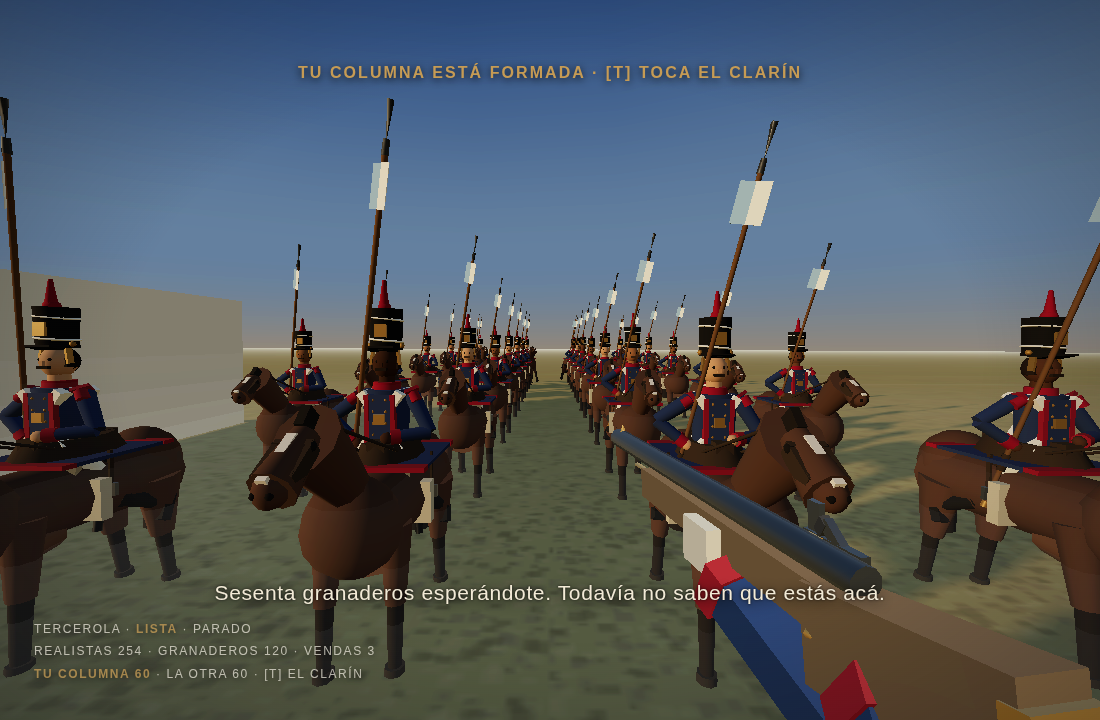
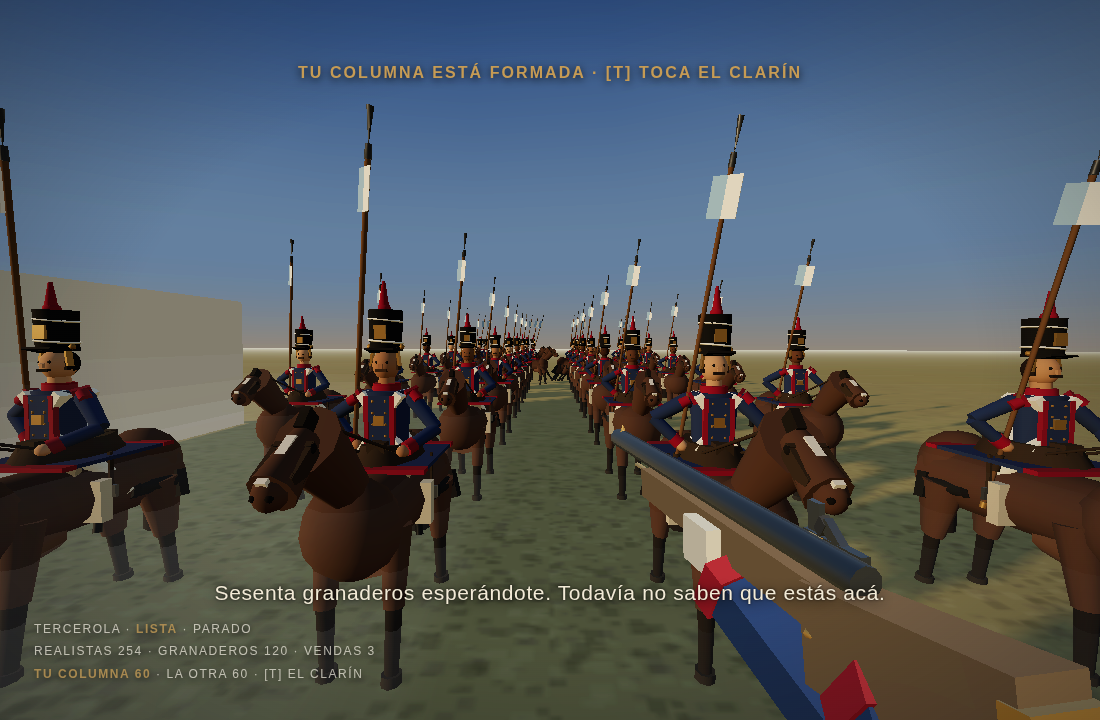
Se le estaba cobrando a la caballería por hacer bien su trabajo
Tus dos columnas de granaderos se quebraban casi tan rápido como la línea
realista y no se veía por qué. Para saberlo hubo que hacer que cada hombre
dejara anotado qué le está bajando el ánimo (s.porQue). El desglose:

                    granadero   realista
  el flanco             1,62       0,57
  la soledad            0,51       0,04
  caballería encima     0          1,09

O sea que el sistema castigaba tres veces más a la tropa que estaba GANANDO la
batalla. Y no era un número mal puesto: era un error de concepto. Los dos
términos más pesados son de LÍNEA DE INFANTERÍA.

El flanco duele porque una línea de infantería no se puede reorientar. Una
carga de caballería, en cambio, se mete adentro del enemigo: quedar rodeado es
el objetivo, no el fracaso. Y el lancero vuelve grupas todo el tiempo, así que
su frente de tropa nunca alcanza a su rumbo y quedaba leyéndose como flanqueado
permanente. La soledad duele porque la infantería pelea hombro con hombro; un
lancero necesita cancha para embalar.

Los dos se cobran SÓLO A PIE. Flanco del granadero: 1,62 → 0,37. Quiebres de
las dos columnas: 70 → 15 sobre 120. Y al que le voltean el caballo se le
cobran los dos enteros y de golpe, que es exactamente lo que tiene que sentir:
dejó de ser caballería.

EL MIEDO AL JINETE SE VE VENIR DE LEJOS. Estaba en quince metros y ahí no
servía: una carga al galope los cruza en segundo y medio, así que el miedo
llegaba junto con el asta. Pasó a treinta y ocho.
[…]

diff --git a/src/balance.js b/src/balance.js
@@ -243,6 +243,25 @@ export const CAIDO_RADIO = 6.5;
 // De ahí sale, escrita como número, la razón de ser de toda la maniobra del 3
 // de febrero: contra dos columnas que entran por los dos costados no hay
 // frente que alcance. No se puede estar orientado a dos lados a la vez.
+// OJO: EL FLANCO Y LA SOLEDAD SON DE LA INFANTERÍA, no de todo el mundo.
+//
+// Los dos primeros números que salieron de medir esto eran una injusticia con
+// la caballería: al granadero le cobraban 1,62 de flanco por segundo contra
+// 0,57 al realista, o sea que el sistema castigaba a la tropa que hacía bien
+// su trabajo. Y con razón, porque los dos conceptos son de LÍNEA:
+//
+//   · el flanco duele porque una línea de infantería NO se puede reorientar.
+//     Una carga de caballería, en cambio, se mete adentro del enemigo: quedar
+//     rodeado es el objetivo. Y el lancero vuelve grupas todo el tiempo, así
+//     que su frente de tropa nunca alcanza a su rumbo y quedaba leyéndose como
+//     flanqueado permanente;
+//   · la soledad duele porque la infantería pelea hombro con hombro. Un
+//     lancero necesita cancha para embalar: le estábamos cobrando la
+//     dispersión que la carga exige.
+//
+// Los dos se cobran SÓLO A PIE. Y al que le voltearon el caballo en medio del
+// desembarco se le cobran los dos de golpe, que es exactamente lo que tiene
+// que sentir: ya no es caballería, es un hombre solo y rodeado.
 export const FLANCO = 9;
 export const FLANCO_RADIO = 22;
 export const FLANCO_CONO = 1.0;       // ±57°: fuera de esto lo tengo al costado
@@ -251,9 +270,33 @@ export const FRENTE_GIRO = 0.32;      // rad/s: lo que tarda la tropa en reorien
 
 // CABALLERÍA ENCIMA. Infantería sin cuadro contra caballo. Es literalmente lo
 // que pasó: los desembarcaron, les cayeron encima y no llegaron a formar.
-export const CABALLO_ENCIMA = 10;
-export const CABALLO_RADIO = 15;
+export const CABALLO_ENCIMA = 11;
+// Y SE VE VENIR DE LEJOS, que es el punto entero.
+//
+// Estaba en quince metros y ahí no servía para nada: una carga al galope cruza
+// quince metros en segundo y medio, así que el miedo llegaba junto con la
+// lanza. Cuando la tenés encima ya es tarde para tener miedo —ya estás muerto o
+// ya estás corriendo—. A treinta y ocho metros la ves cerrarse durante cuatro
+// segundos largos antes de que te toque, y ésos son los segundos en los que una
+// línea decide si aguanta o se va. Medido, es la diferencia entre que se
+// quiebren después de perder ciento treinta hombres o antes.
+export const CABALLO_RADIO = 38;
 export const CABALLO_LLENO = 2;
+
+// Y NO DA LO MISMO DE DÓNDE VIENE, que es lo que junta a este término con el
+// flanco en vez de dejarlos peleándose.
+//
+// Subir el radio a treinta y ocho metros —para que el miedo llegue antes que la
+// lanza— tuvo un efecto que no había visto: el terror pasó a pesar igual desde
+// cualquier ángulo, y aplastó la ventaja de flanquear. Dos términos tirando
+// para lados distintos.
+//
+// Son una sola idea. Caballería que ves venir de frente es espantosa;
+// caballería que te aparece por un costado al que no podés dar la cara es otra
+// cosa. Así que el miedo al jinete se multiplica según cuántos de ellos estén
+// fuera del frente de la tropa, y la pinza vuelve a ser la mejor manera de
+// entrar sin que haya que decirlo aparte.
+export const CABALLO_FLANCO = 2.4;
 
 // LA SOLEDAD. Un hombre en una línea apretada aguanta; el mismo hombre solo,
 // no. Es la otra cara del gentío: la formación no sirve sólo para tirar juntos.
@@ -261,6 +304,21 @@ export const SOLEDAD = 5;
 export const JUNTOS_RADIO = 9;
 export const JUNTOS_MINIMO = 3;
 
+// ¿Y QUÉ LE DA MIEDO A LA CABALLERÍA, ENTONCES?
+//
+// Sacados el flanco y la soledad, al granadero montado le queda el compañero
+// que cae al lado, sus propias heridas y el contagio. Se probó agregarle el
+// ATASCO —quedarse frenado adentro del montón, que es cuando una carga deja de
+// ser una carga y pasa a ser un blanco a la altura de la bayoneta— y se midió:
+// con enemigos a menos de ocho metros, el lancero NUNCA baja de cuatro metros
+// por segundo. El 58 % del tiempo va a galope tendido. Entra, pega y sale, que
+// es exactamente lo que tiene que hacer, así que la constante no se disparaba
+// jamás. Se sacó: un número que nunca se usa es peor que no tenerlo, porque
+// miente sobre lo que la tabla hace.
+//
+// Lo que sí le da miedo a la caballería, y ya estaba, es DEJAR DE SERLO: al
+// que le voltean el caballo pasa a ser un hombre solo y rodeado, y ahí se le
+// cobran de golpe el flanco y la soledad enteros.
 export const HERIDO = 4;              // por segundo con menos de la mitad de la vida
 export const PIEZA_CALLADA = 18;      // de golpe, a los de su bando a 30 m
 export const PIEZA_RADIO = 30;
@@ -275,6 +333,17 @@ export const APLOMO = 4;
 // por su cuenta y la línea se disuelve pareja, de a uno, como hielo que se
 // derrite. Con esto un pedazo cede y el hueco se propaga hacia afuera hasta que
 // se va todo junto. Eso es una desbandada.
+// PRIMERO EL QUE TODAVÍA PELEA. Al que ya se está yendo se lo mira a lo
+// último, y esto faltaba: sin la regla, los ciento veinte granaderos soltaban a
+// los que les tiraban para correr atrás del más cercano, que casi siempre era
+// alguno huyendo. Medido, la persecución se llevaba 145 de 250 —más de la
+// mitad— cuando en San Lorenzo murieron unos cuarenta.
+//
+// No es piedad: es prioridad. El que corre ya no te dispara; el que se quedó,
+// sí. Se paga en metros, con la misma moneda que la saturación: el quebrado se
+// ve como si estuviera veintidós metros más lejos de lo que está.
+export const PERSEGUIR = 22;
+
 export const CONTAGIO = 18;
 export const CONTAGIO_RADIO = 7.5;
 
@@ -286,8 +355,13 @@ export const TEMPLE = [0.72, 0.62];   // [mínimo, azar]
 // ve que se está yendo todo el mundo, y eso es un golpe aparte: es el momento
 // en que la retirada ordenada se vuelve fuga. Sin él la desbandada se arrastra;
 // con él tiene un instante.
-export const LINEA_ROTA = 0.22;
-export const DESBANDE = 45;
+// Y hace falta una LÍNEA para que se pueda quebrar una línea: con menos que
+// esto no hay bando que se desbande, hay unos tipos peleando. Sin el mínimo,
+// en una escaramuza de doce hombres bastaban dos quebrados para dispararle el
+// desbande a los diez restantes.
+export const LINEA_MINIMA = 30;
+export const LINEA_ROTA = 0.17;
+export const DESBANDE = 52;
 
 // Y a dónde corre el que se quebró. No «lejos»: los realistas bajan por donde
 // subieron —la barranca está en z −85 y la escuadra fondeada detrás— y los

diff --git a/src/moral.js b/src/moral.js
@@ -45,11 +45,11 @@ import {
   ANIMO_TROPA, VIDA_TROPA,
   CAIDO_CERCA, CAIDO_RADIO,
   FLANCO, FLANCO_RADIO, FLANCO_CONO, FLANCO_LLENO,
-  CABALLO_ENCIMA, CABALLO_RADIO, CABALLO_LLENO,
+  CABALLO_ENCIMA, CABALLO_RADIO, CABALLO_LLENO, CABALLO_FLANCO,
   SOLEDAD, JUNTOS_RADIO, JUNTOS_MINIMO,
   HERIDO, PIEZA_CALLADA, PIEZA_RADIO, FRENTE_GIRO,
   APLOMO, CONTAGIO, CONTAGIO_RADIO,
-  LINEA_ROTA, DESBANDE
+  LINEA_ROTA, LINEA_MINIMA, DESBANDE
 } from './balance.js';
 
 const PASO = 0.4;                 // cada cuánto mira cada hombre a su alrededor
@@ -88,7 +88,7 @@ export function armarMoral (ctx) {
   // 2. LO QUE VE UN HOMBRE ALREDEDOR
   // -------------------------------------------------------------------------
   function mirar (s, dt) {
-    let amigos = 0, flanco = 0, jinetes = 0, rotos = 0;
+    let amigos = 0, flanco = 0, jinetes = 0, deCostado = 0, rotos = 0;
 
     // EL FRENTE DE LA TROPA, que persigue al rumbo del hombre pero muchísimo
     // más despacio. Contra esto se mide el flanco, y no contra hacia dónde
@@ -115,9 +115,10 @@ export function armarMoral (ctx) {
         else if (d < JUNTOS_RADIO) amigos++;
         continue;
       }
-      if (o.montado && d < CABALLO_RADIO) jinetes++;
       // ¿lo tengo adelante, o al costado y a la espalda?
-      if ((dx * fx + dz * fz) / d < COS_FLANCO) flanco++;
+      const aLaCara = (dx * fx + dz * fz) / d >= COS_FLANCO;
+      if (o.montado && d < CABALLO_RADIO) { jinetes++; if (!aLaCara) deCostado++; }
+      if (!aLaCara) flanco++;
     }
 
     // Y VOS CONTÁS. Sos el enemigo más importante del campo: si el jugador no
@@ -127,17 +128,39 @@ export function armarMoral (ctx) {
       const dx = jugador.pos.x - s.pos.x, dz = jugador.pos.z - s.pos.z;
       const d = Math.hypot(dx, dz) || 0.001;
       if (d < FLANCO_RADIO) {
-        if (montado() && d < CABALLO_RADIO) jinetes++;
-        if ((dx * fx + dz * fz) / d < COS_FLANCO) flanco++;
+        const aLaCara = (dx * fx + dz * fz) / d >= COS_FLANCO;
+        if (montado() && d < CABALLO_RADIO) { jinetes++; if (!aLaCara) deCostado++; }
+        if (!aLaCara) flanco++;
       }
     }
 
-    let baja = 0;
-    if (flanco) baja += FLANCO * Math.min(1, flanco / FLANCO_LLENO);
-    if (jinetes) baja += CABALLO_ENCIMA * Math.min(1, jinetes / CABALLO_LLENO);
-    if (amigos < JUNTOS_MINIMO) baja += SOLEDAD * (1 - amigos / JUNTOS_MINIMO);
-    if (s.vida <= VIDA_TROPA / 2) baja += HERIDO;
-    if (rotos) baja += CONTAGIO * Math.min(1, rotos / 2);
+    // POR QUÉ SE ESTÁ QUEBRANDO. Se anota desglosado, y no es un lujo de
+    // depuración: un sistema en el que un hombre deja de pelear sin que se
+    // pueda decir por qué es un sistema que no se puede ajustar. Cuesta cinco
+    // escrituras cada 0,4 s por hombre.
+    const q = s.porQue || (s.porQue = { flanco: 0, jinetes: 0, solo: 0, herido: 0, rotos: 0 });
+    // A PIE Y A CABALLO NO SE LE TIENE MIEDO A LO MISMO.
+    //
+    // El flanco y la soledad son de la LÍNEA DE INFANTERÍA y se cobran sólo a
+    // pie (el porqué, en balance.js). Una carga se mete adentro del enemigo:
+    // quedar rodeado es el objetivo, y el lancero necesita cancha. Cobrárselos
+    // era castigar a la tropa por hacer bien su trabajo — medido: 1,62 de
+    // flanco por segundo al granadero contra 0,57 al realista.
+    //
+    // Y al que le voltean el caballo se le cobran los dos de golpe, que es
+    // exactamente lo que tiene que sentir: dejó de ser caballería.
+    const aPie = !s.montado;
+    q.flanco = aPie && flanco ? FLANCO * Math.min(1, flanco / FLANCO_LLENO) : 0;
+    q.solo = aPie && amigos < JUNTOS_MINIMO ? SOLEDAD * (1 - amigos / JUNTOS_MINIMO) : 0;
+    // el jinete que te entra por el costado asusta el doble largo que el que
+    // te viene de frente: es la misma idea que el flanco, no otra
+    q.jinetes = jinetes
+      ? CABALLO_ENCIMA * Math.min(1, jinetes / CABALLO_LLENO) *
+        (1 + (deCostado / jinetes) * (CABALLO_FLANCO - 1))
+      : 0;
+    q.herido = s.vida <= VIDA_TROPA / 2 ? HERIDO : 0;
+    q.rotos = rotos ? CONTAGIO * Math.min(1, rotos / 2) : 0;
+    const baja = q.flanco + q.jinetes + q.solo + q.herido + q.rotos;
 
     // El neto, y no una rama: si el recupero fuera un «else» habría un
     // escalón en cero —el que tiene un enemigo lejísimos no se recompone
@@ -233,7 +256,7 @@ export function armarMoral (ctx) {
 
     for (const bando of ['realista', 'granadero']) {
       const c = cuenta[bando];
-      if (roto[bando] || c.vivos < 8) continue;
+      if (roto[bando] || c.vivos < LINEA_MINIMA) continue;
       if (c.rotos / c.vivos >= LINEA_ROTA) romper(bando, c.vivos - c.rotos);
     }
 

diff --git a/src/soldados.js b/src/soldados.js
@@ -9,7 +9,7 @@ import { sacarDeCaja, RADIO_HOMBRE } from './estorbos.js';
 import {
   VIDA_TROPA, VOLTEO, OFICIO, tirar,
   ALIENTO_TROPA, GASTO_CARRERA, RECUPERO, CARRERA_MINIMA, SATURACION,
-  ANIMO_TROPA, TEMPLE, REFUGIO_REALISTA, REFUGIO_GRANADERO
+  ANIMO_TROPA, TEMPLE, REFUGIO_REALISTA, REFUGIO_GRANADERO, PERSEGUIR
 } from './balance.js';
 
 // Soldados de los dos bandos. Misma anatomía, distinta casaca:
@@ -536,8 +536,13 @@ export class Soldado {
       this.objetivo.soldado.vivo && this._distancia(this.objetivo.pos) < ALCANCE_ACERO + 1.4;
     if (pegado) return this._distancia(this.objetivo.pos);
 
+    // PRIMERO EL QUE TODAVÍA PELEA. El que se quebró ya no te dispara y se
+    // está yendo solo: perseguirlo antes que atender al que sí te está
+    // apuntando es lo que convertía la desbandada en una carnicería. Se paga
+    // en metros, con la misma moneda que la saturación.
     const mirar = (o, d, quien) => {
-      const puntaje = d + (ac.get(quien) || 0) * SATURACION;
+      const puntaje = d + (ac.get(quien) || 0) * SATURACION +
+        (quien !== 'jugador' && quien.quebrado ? PERSEGUIR : 0);
       if (puntaje < mejorPuntaje) { mejorPuntaje = puntaje; mejorD = d; mejor = o; }
     };
     if (this.esRealista && jugador.vivo) {

diff --git a/docs/GDD.md b/docs/GDD.md
@@ -1459,6 +1459,87 @@ jinetes a la misma distancia y cambiando sólo el ángulo:
 mirando a −z, o sea al río que tenían a la espalda. Sin moral no se notaba;
 con moral quedaban flanqueados por su propio objetivo desde el cuadro uno.)
 
+#### Se le estaba cobrando a la caballería por hacer bien su trabajo
+
+La primera versión rompía las dos columnas de granaderos casi tan rápido como
+la línea realista, y no se veía por qué. Para saberlo hubo que hacer que cada
+hombre **dejara anotado qué le está bajando el ánimo** (`s.porQue`, cinco
+escrituras cada 0,4 s). El desglose, promediado sobre la batalla:
+
+| Lo que baja el ánimo | Al granadero | Al realista |
+|---|---|---|
+| **El flanco** | **1,62** | 0,57 |
+| **La soledad** | **0,51** | 0,04 |
+| Caballería encima | 0 | 1,09 |
+
+O sea: el sistema castigaba tres veces más a la tropa que estaba **ganando la
+batalla**. Y no era un número mal puesto, era un error de concepto. Los dos
+términos más pesados son de **línea de infantería**:
+
+- **El flanco** duele porque una línea de infantería *no se puede reorientar*:
+  su frente tarda diez segundos en girar. Una carga de caballería, en cambio,
+  se mete adentro del enemigo — quedar rodeado es el objetivo, no el fracaso—.
+  Y el lancero vuelve grupas todo el tiempo, así que su frente de tropa nunca
+  alcanza a su rumbo real y quedaba leyéndose como flanqueado permanente.
+- **La soledad** duele porque la infantería pelea hombro con hombro. Un lancero
+  necesita cancha para embalar: se le estaba cobrando la dispersión que la
+  carga exige.
+
+**Los dos se cobran sólo a pie.** Con eso el flanco del granadero cayó de 1,62
+a 0,37 —lo que le queda es de los desmontados, que es correcto— y los quiebres
+de las dos columnas de 70 a 15 sobre 120.
+
+Y de paso el reparto quedó diciendo algo: **al que le voltean el caballo se le
+cobran el flanco y la soledad enteros, de golpe**. Ya no es caballería, es un
+hombre solo y rodeado. Ése es el miedo de la caballería, y ya estaba escrito.
+
+##### Y el miedo al jinete tiene ángulo
+
+Sacados el flanco y la soledad de la caballería, faltaba que los realistas se
+quebraran **antes** de que la lanza los alcanzara. El radio del miedo al jinete
+estaba en quince metros, y ahí no servía para nada: una carga al galope cruza
+quince metros en segundo y medio, así que el miedo llegaba junto con el asta.
+Cuando la tenés encima ya es tarde para tener miedo. Pasó a **treinta y ocho**:
+cuatro segundos largos de verla cerrarse, que son los segundos en los que una
+línea decide.
+
+Pero eso trajo un efecto que no había visto: el terror pasó a pesar **igual
+desde cualquier ángulo**, y aplastó la ventaja de flanquear. Medido, la
+diferencia entre entrar de frente y entrar por el costado se había caído a doce
+puntos de ánimo. Dos términos tirando para lados distintos.
+
+La salida no fue subir uno y bajar el otro, sino ver que **son una sola idea**.
+Caballería que ves venir de frente es espantosa; caballería que te aparece por
+un costado al que no podés dar la cara es otra cosa. Así que el miedo al jinete
+se multiplica (×2,4) según cuántos de esos jinetes estén fuera del frente de la
+tropa. Con eso:
+
+| Ánimo a los 4 s, media de 3 corridas | de frente | por el flanco |
+|---|---|---|
+| | **70** | **27** |
+| | 63 | 23 |
+| | 70 | 18 |
+
+Y la pinza volvió a ser la mejor manera de entrar sin que haya que decirlo
+aparte en ningún lado.
+
+##### El número que se probó y se sacó
+
+Sacados esos dos, se le agregó al jinete el **atasco**: quedarse frenado
+adentro del montón, que es cuando una carga deja de ser una carga y pasa a ser
+un blanco a la altura de la bayoneta. Suena bien y se midió:
+
+| Velocidad del lancero con enemigos a menos de 8 m | |
+|---|---|
+| Menos de 4 m/s | **0 %** |
+| 4 a 6 m/s | 26 % |
+| 6 a 8 m/s | 16 % |
+| Galope tendido | **58 %** |
+
+El lancero **nunca** se frena: entra, pega y sale, que es exactamente lo que
+tiene que hacer. La constante no se disparaba jamás, así que se sacó. Un número
+que nunca se usa es peor que no tenerlo: miente sobre lo que la tabla hace.
+
 #### El contagio, que es lo que lo hace ver como una desbandada
 
 Sin contagio, doscientos cincuenta hombres cruzan su umbral cada uno por su
@@ -1502,6 +1583,7 @@ pena esperar el clarín.
 | La batalla termina por | exterminio | **quiebre** |
 | Realistas que se van / que mueren | 0 / 250 | **186 / 64** |
 | Granaderos vivos al final | 0 de 120 | **89 de 120** |
+| Granaderos que se quiebran | — | 15 de 120 (eran 70 antes de separar a pie de a caballo) |
 | Costo de la moral | — | **0,3 ms** por cuadro con 375 hombres |
 
 El barrido se hace **escalonado**: cada hombre mira a su alrededor cada 0,4 s y
@@ -1509,10 +1591,44 @@ los turnos están repartidos al nacer. Por cuadro se miran quince, no
 trescientos setenta. De paso, escalonar sirve para algo más que el costo: si
 todos miraran en el mismo cuadro, todos cruzarían el umbral en el mismo cuadro.
 
-**Lo que esto NO arregla**: la batalla dura medio minuto de reloj, no quince.
-El techo lo pone la letalidad de una carga de lanza, que es otra tabla y otra
-conversación. Lo que la moral cambia es *cómo termina*, y eso era lo que
-faltaba.
+#### Lo que esto NO arregla, y la cuenta que lo demuestra
+
+En San Lorenzo se fueron unos doscientos diez de doscientos cincuenta y
+murieron unos cuarenta. Acá se van alrededor de **115** y mueren **135**. La
+moral hace que la batalla termine por quiebre, pero no alcanza a salvar a los
+que la lanza alcanza primero.
+
+La cuenta, que es lo que cierra la discusión: los realistas caen de 254 a ~130
+entre el segundo 15 y el 27, o sea **diez muertos por segundo**. Con ciento
+veinte lanceros eso es una muerte por lancero cada doce segundos, que es
+exactamente lo que dura un ciclo de carga —entrar, pegar, seguir de largo,
+volver grupas—. O sea: **cada pasada de lanza mata**, porque `LANZA_TROPA` vale
+4 y `VIDA_TROPA` vale 4. Exactamente letal.
+
+Mientras eso siga así, la mitad de la fuerza se muere antes de tener tiempo de
+quebrarse, por rápido que se quiebre. No es un problema de moral: es la tabla
+de daño. `pruebas/moral.mjs` imprime la brecha en cada corrida para que no se
+olvide.
+
+Lo mismo con el reloj: la batalla dura medio minuto, no quince, y el techo lo
+pone la misma letalidad.
+
+#### Dos lecciones de medición
+
+**Una medida ruidosa no se arregla aflojando el umbral.** La comparación entre
+flanco y frente saltaba entre 0,58 y 0,80 de una corrida a otra —el temple de
+cada hombre va de 0,72 a 1,34 a propósito—, así que la prueba pasaba o fallaba
+según los dados. Se corre tres veces y se promedia.
+
+**Y cuando promediar empeora el ruido, las corridas no eran independientes.**
+Al promediar «cuántos segundos tardan en quebrarse» la medida se puso *peor*,
+y el motivo resultó ser una propiedad del sistema y no un defecto de la prueba:
+la ventaja del flanco **se agota**. El frente de la tropa gira a 0,32 rad/s, así
+que en unos diez segundos la línea terminó de reorientarse y algunas corridas no
+se quebraban nunca, metiendo el tope de cuarenta segundos en el promedio. Que
+es, además, lo que hay que entender de la maniobra: la pinza vale en los
+primeros segundos, no indefinidamente. La medición se mudó adentro de esa
+ventana.
 
 ---
 

diff --git a/README.md b/README.md
@@ -143,7 +143,13 @@ Lo que **ya funciona**:
 - **La moral, y con ella un final**: cada hombre lleva su ánimo, se lo bajan los que caen
   al lado, el flanco, la caballería encima y la soledad, y el quiebre **contagia**. La
   batalla ya no termina cuando muere el último: termina cuando la línea se rompe y baja
-  la barranca a los botes. Medido: de 250 realistas, **186 se van y 64 mueren**.
+  la barranca a los botes. Medido: de 250 realistas, **~115 bajan la barranca y ~135
+  mueren** (en 1813 fueron unos 210 y unos 40: la diferencia la pone la lanza, que mata
+  en cada pasada, no la moral — está anotado en `pruebas/moral.mjs`).
+  El flanco y la soledad se cobran **sólo a pie** —una carga se mete adentro del enemigo:
+  quedar rodeado es el objetivo—, así que al que le voltean el caballo se le vienen los
+  dos encima de golpe. Cada hombre deja anotado qué le está bajando el ánimo
+  (`juego.soldados[0].porQue` en la consola), que es lo que permite ajustarlo.
 - **El plano de la maniobra** antes de entrar, dibujado con las medidas de verdad del
   nivel: si mañana cambia una ruta, el plano cambia con ella.
 - **La pinza de a dos, en red local**: las dos columnas llevadas por dos personas, cada
